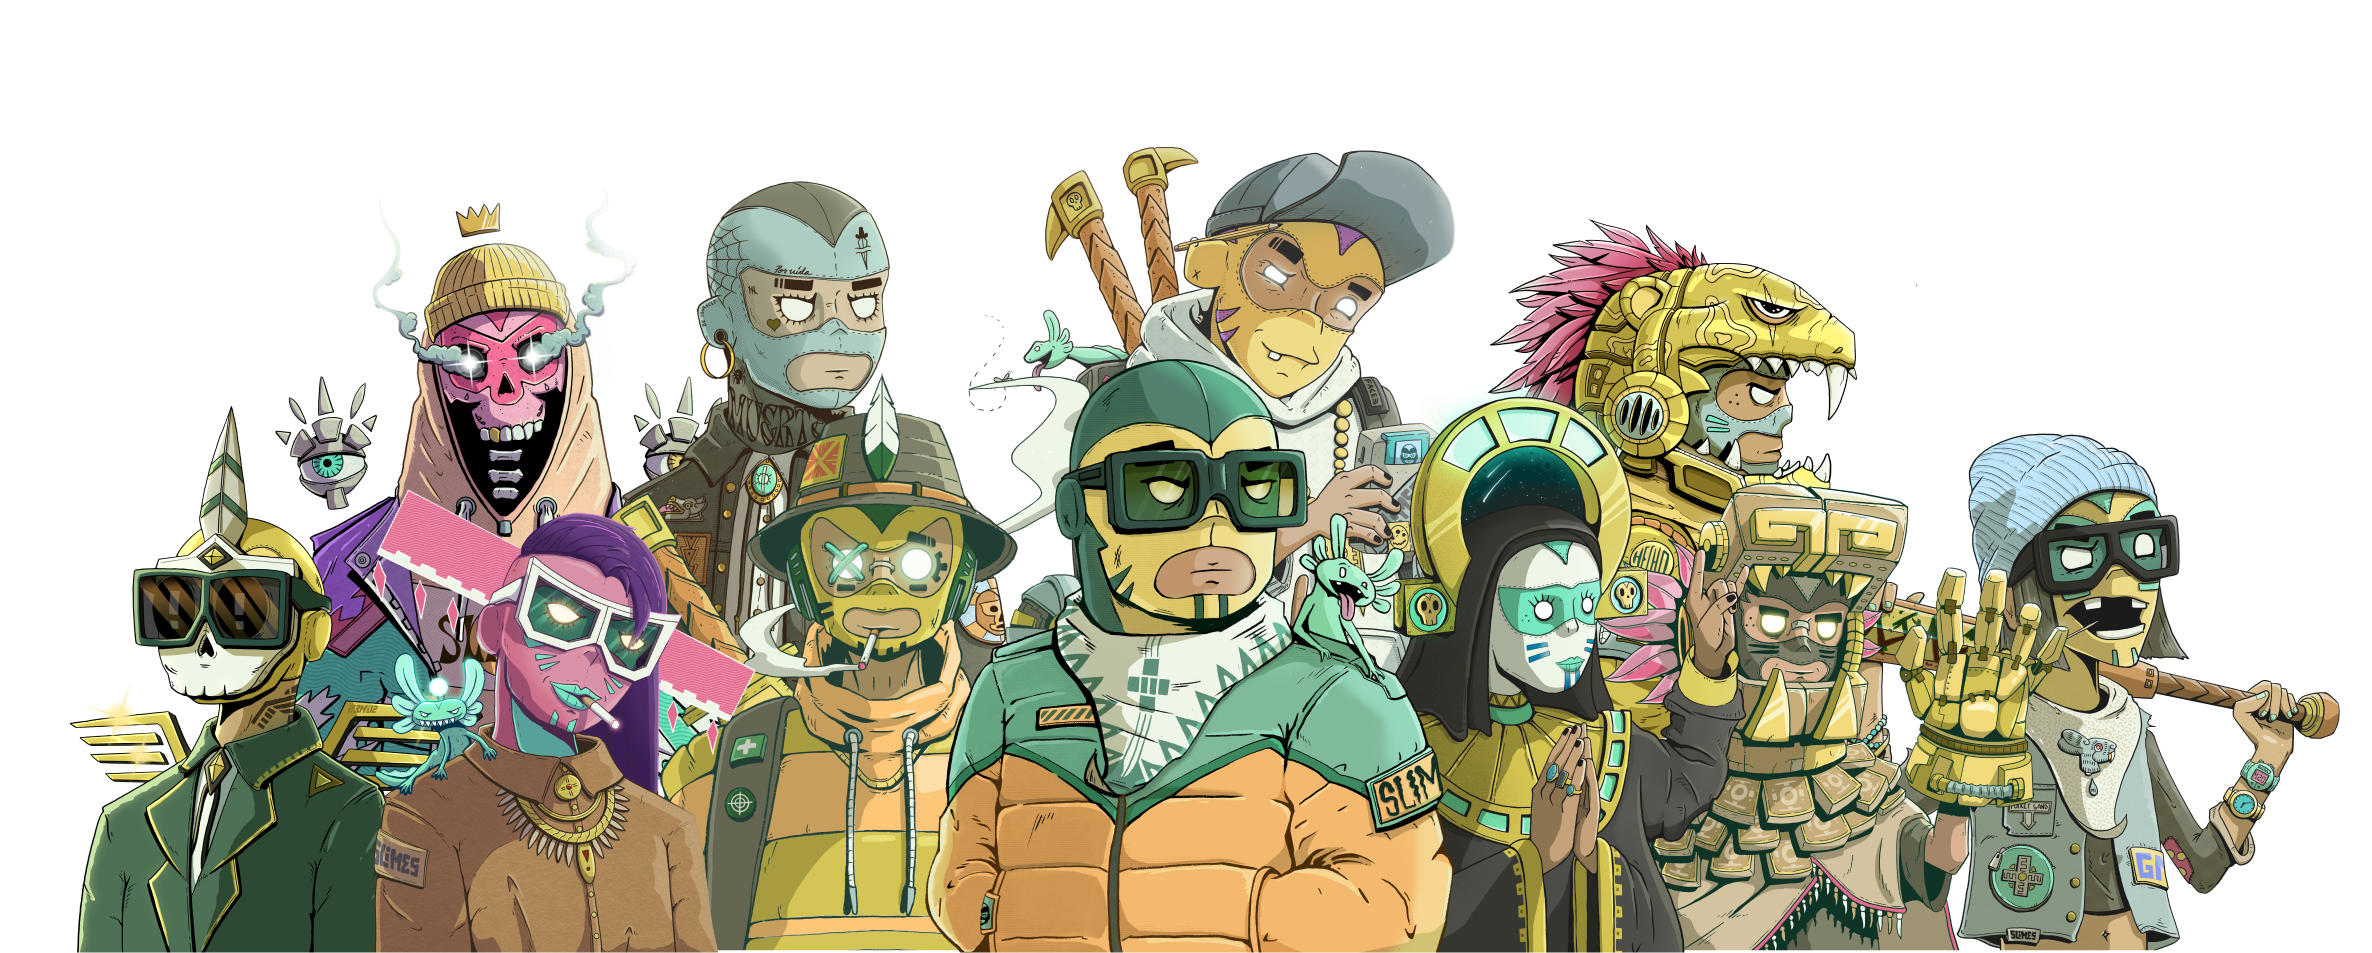
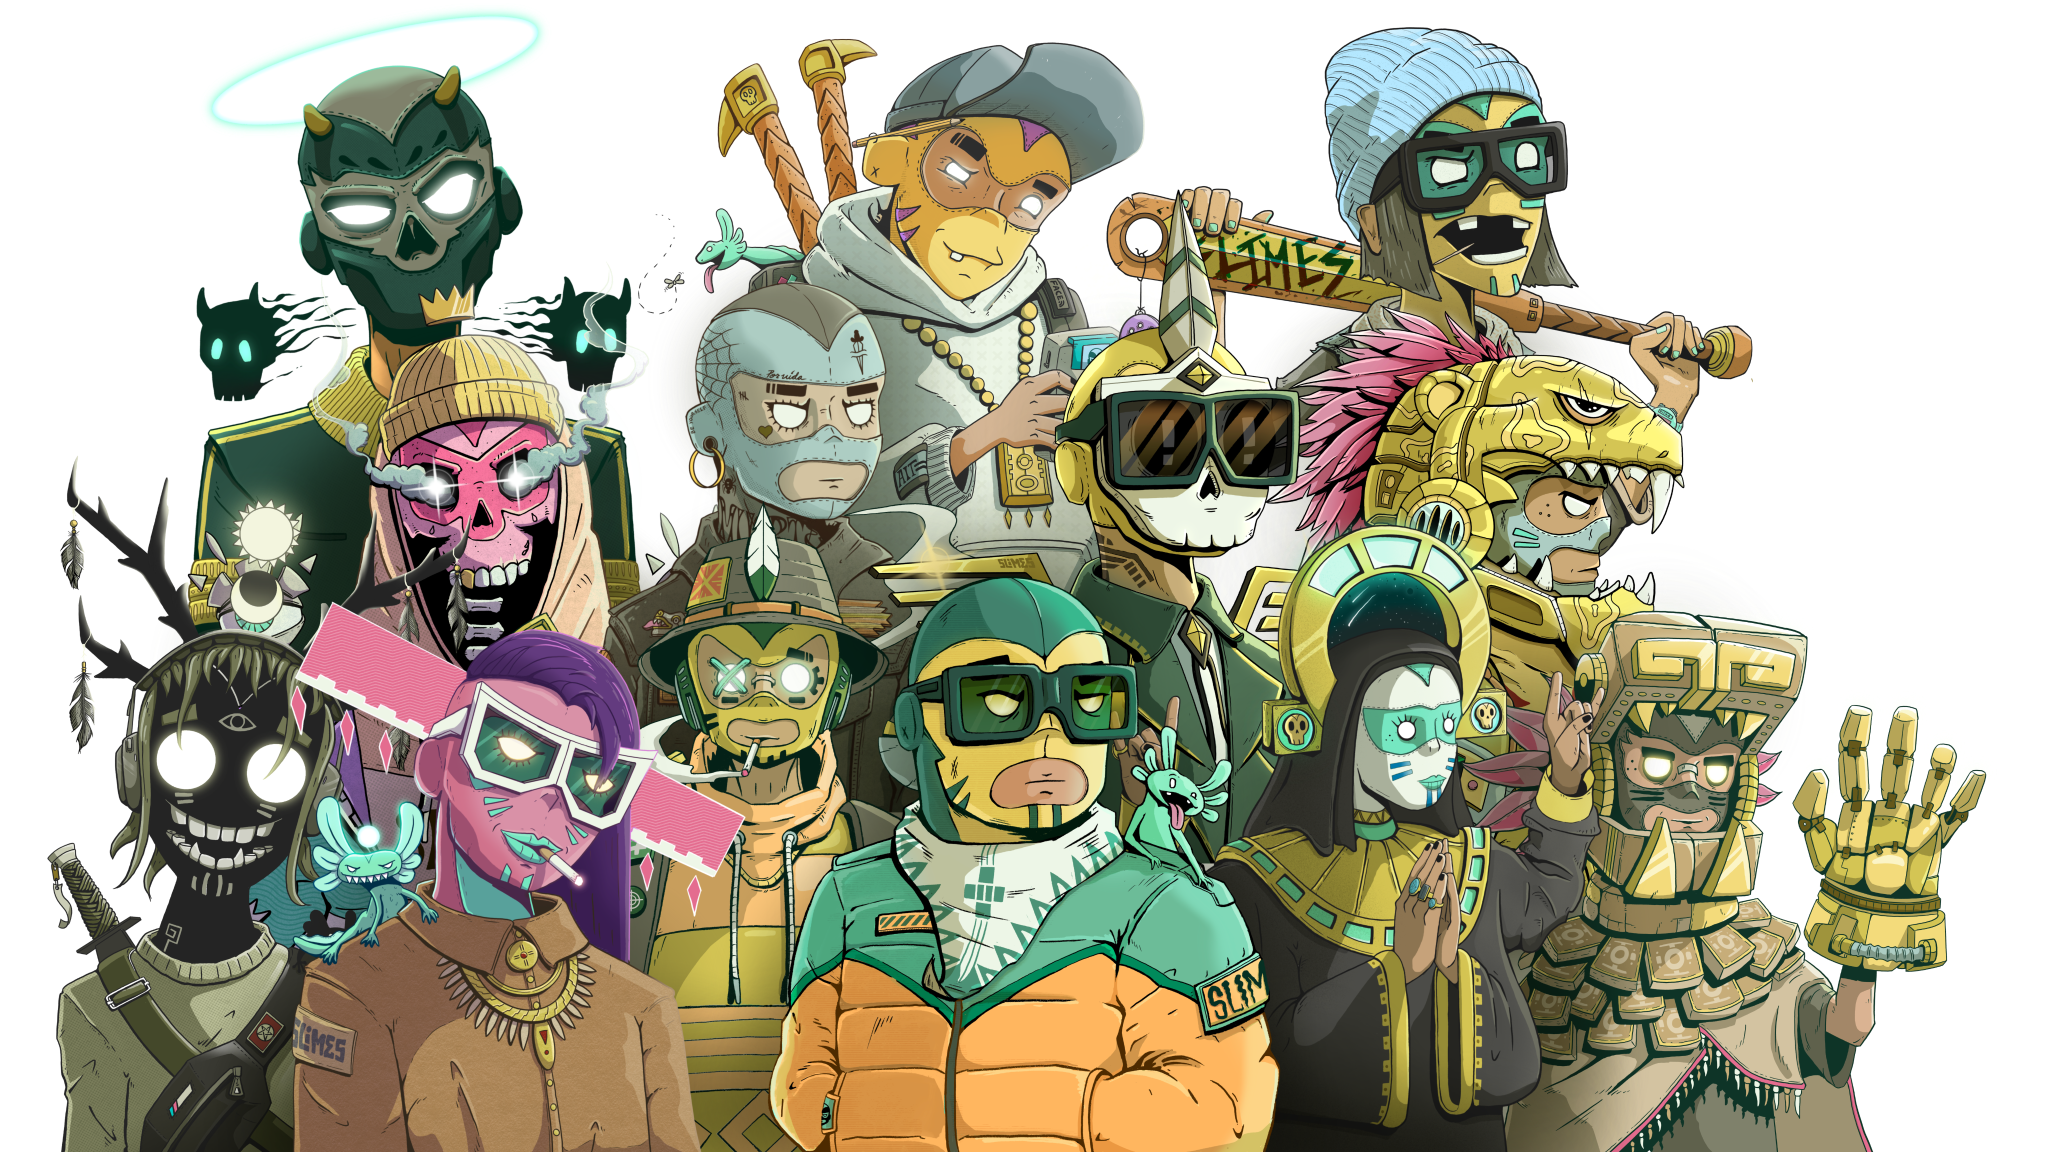
updated landing splash

diff --git a/src/components/templates/LandingPage.tsx b/src/components/templates/LandingPage.tsx
@@ -36,14 +36,14 @@ const LandingPage: FC<Props> = (props: Props) => {
         exit={{ opacity: 0 }}
         transition={{ duration: 0.7, ease: "easeInOut" }}
       >
-        <div className="absolute left-1/2 -bottom-10 lg:bottom-auto lg:top-[27%] transform -translate-y-1/2 -translate-x-1/2">
+        <div className=" z-10 absolute left-1/2 -bottom-10 lg:bottom-auto lg:top-[27%] transform -translate-y-1/2 -translate-x-1/2">
           <LogoText showAnimation={!showPage} />
         </div>
       </motion.div>
 
       {/* desktop image */}
       <motion.div
-        className="hidden lg:block fixed -bottom-0.5"
+        className="hidden lg:flex fixed -bottom-0.5 w-3/4 4xl:w-auto"
         {...showAnimation}
       >
         <Image
